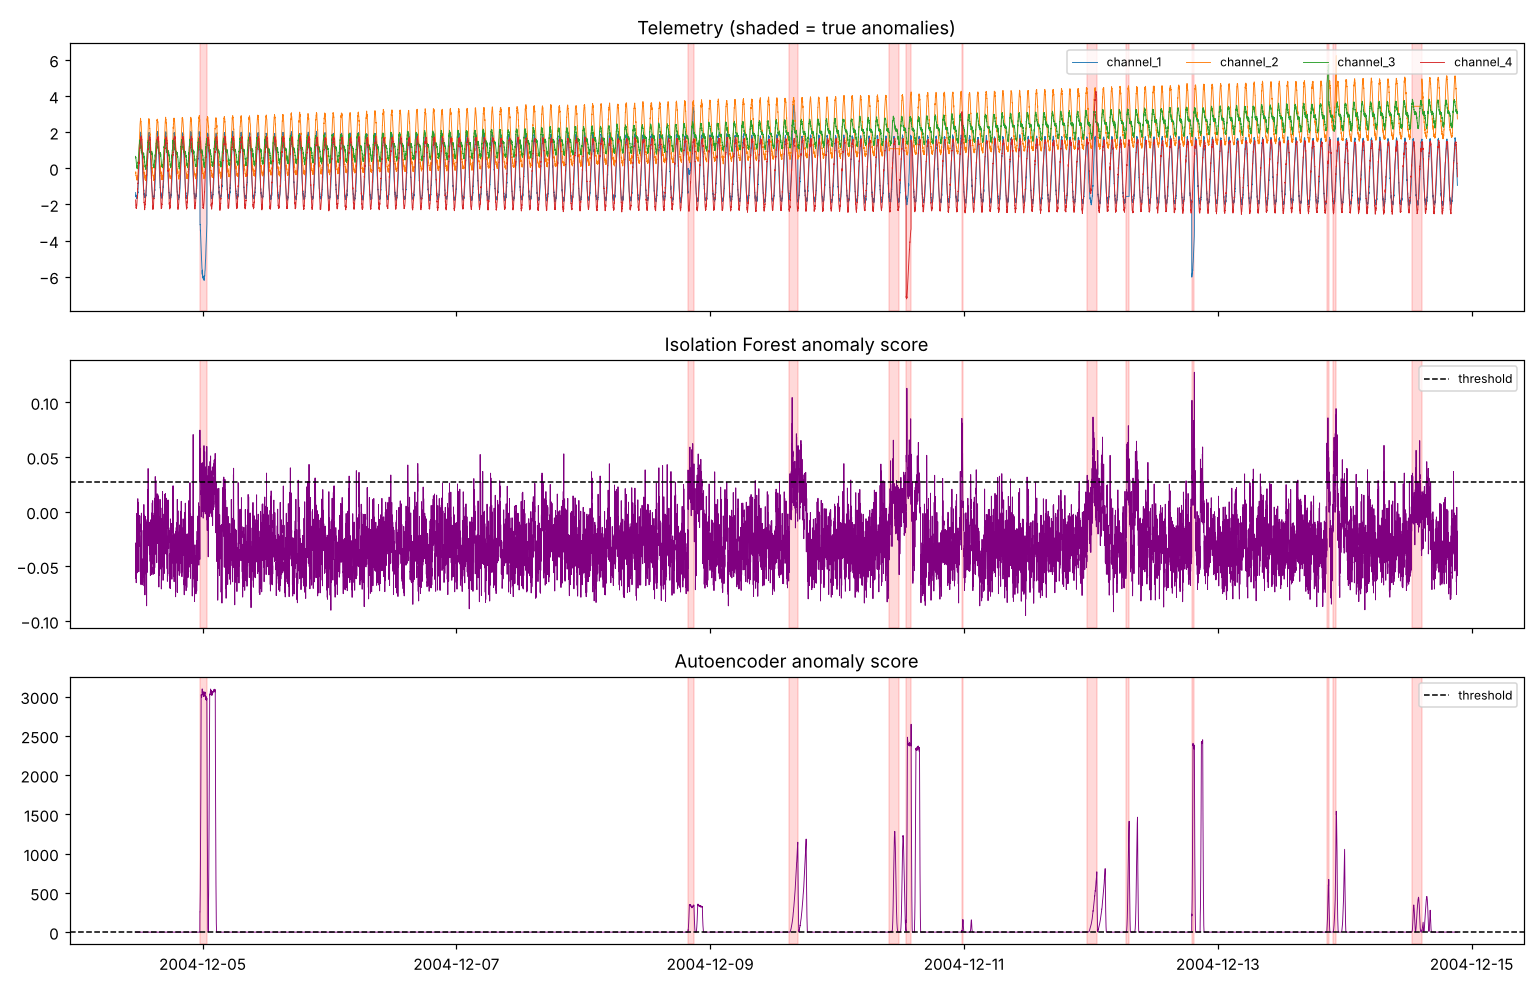
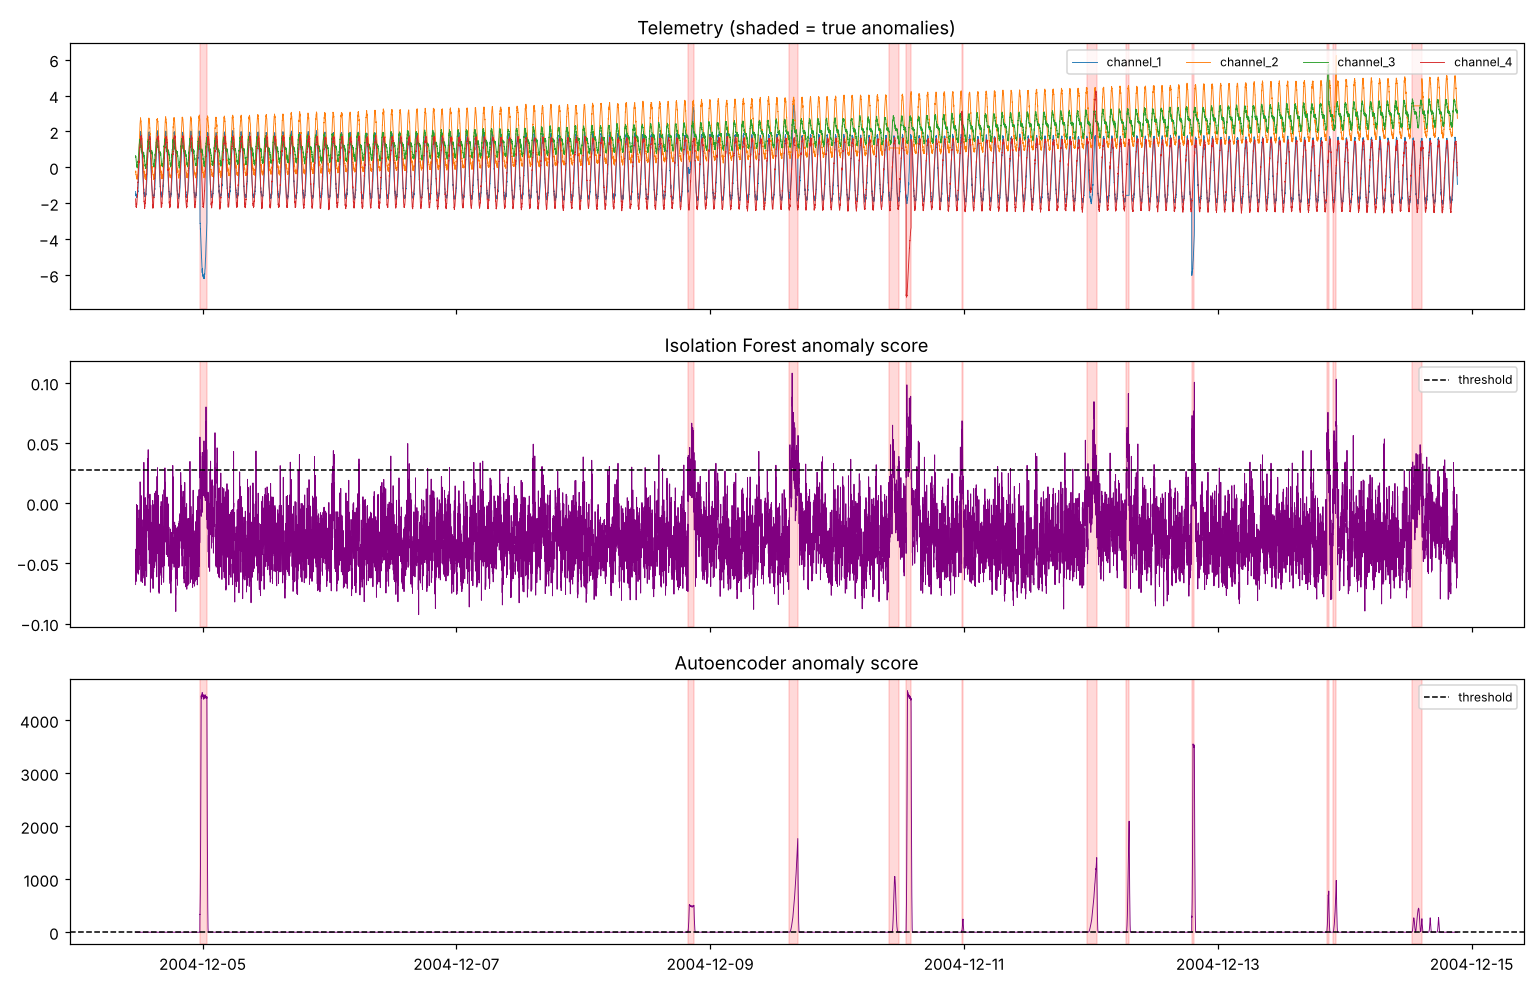
Compare against the median of the last three orbits to remove echo alarms
The orbit-difference feature compared each sample with the same phase one orbit earlier, so every anomaly produced a second burst of alarms exactly one orbit later (visible in the score plot). Using the median of the previous three orbits removes the echo. Autoencoder PR-AUC 0.42 -> 0.83, F1 0.58 -> 0.73; Isolation Forest PR-AUC 0.45 -> 0.57, alarm rate 3.9% -> 3.0%.

Claude-Session: https://claude.ai/code/session_01Kn3xAoetBbZQJGC8BGYy94

diff --git a/spacecraft_ad/features.py b/spacecraft_ad/features.py
@@ -16,12 +16,16 @@ DEFAULT_PERIOD = 95  # samples per orbit (minutes, for 1-minute telemetry in LEO
 
 def window_features(telemetry, window=15, period=DEFAULT_PERIOD):
     """Per channel: rolling std, first difference, deviation from a longer rolling
-    median, difference from one orbit ago and its rolling mean."""
+    median, difference from the same orbit phase (median of the last 3 orbits) and
+    its rolling mean."""
     feats = {}
     for col in telemetry.columns:
         x = telemetry[col]
         baseline = x.rolling(window * 8, min_periods=1).median()
-        orbit_diff = (x - x.shift(period)).fillna(0.0)
+        # Compare with the median of the same orbit phase over the last 3 orbits. Using
+        # just one orbit ago made every anomaly echo one orbit later.
+        past_orbits = pd.concat([x.shift(k * period) for k in (1, 2, 3)], axis=1).median(axis=1)
+        orbit_diff = (x - past_orbits).fillna(0.0)
         feats[f"{col}_std"] = x.rolling(window, min_periods=1).std().fillna(0.0)
         feats[f"{col}_diff"] = x.diff().fillna(0.0)
         feats[f"{col}_dev"] = x - baseline
